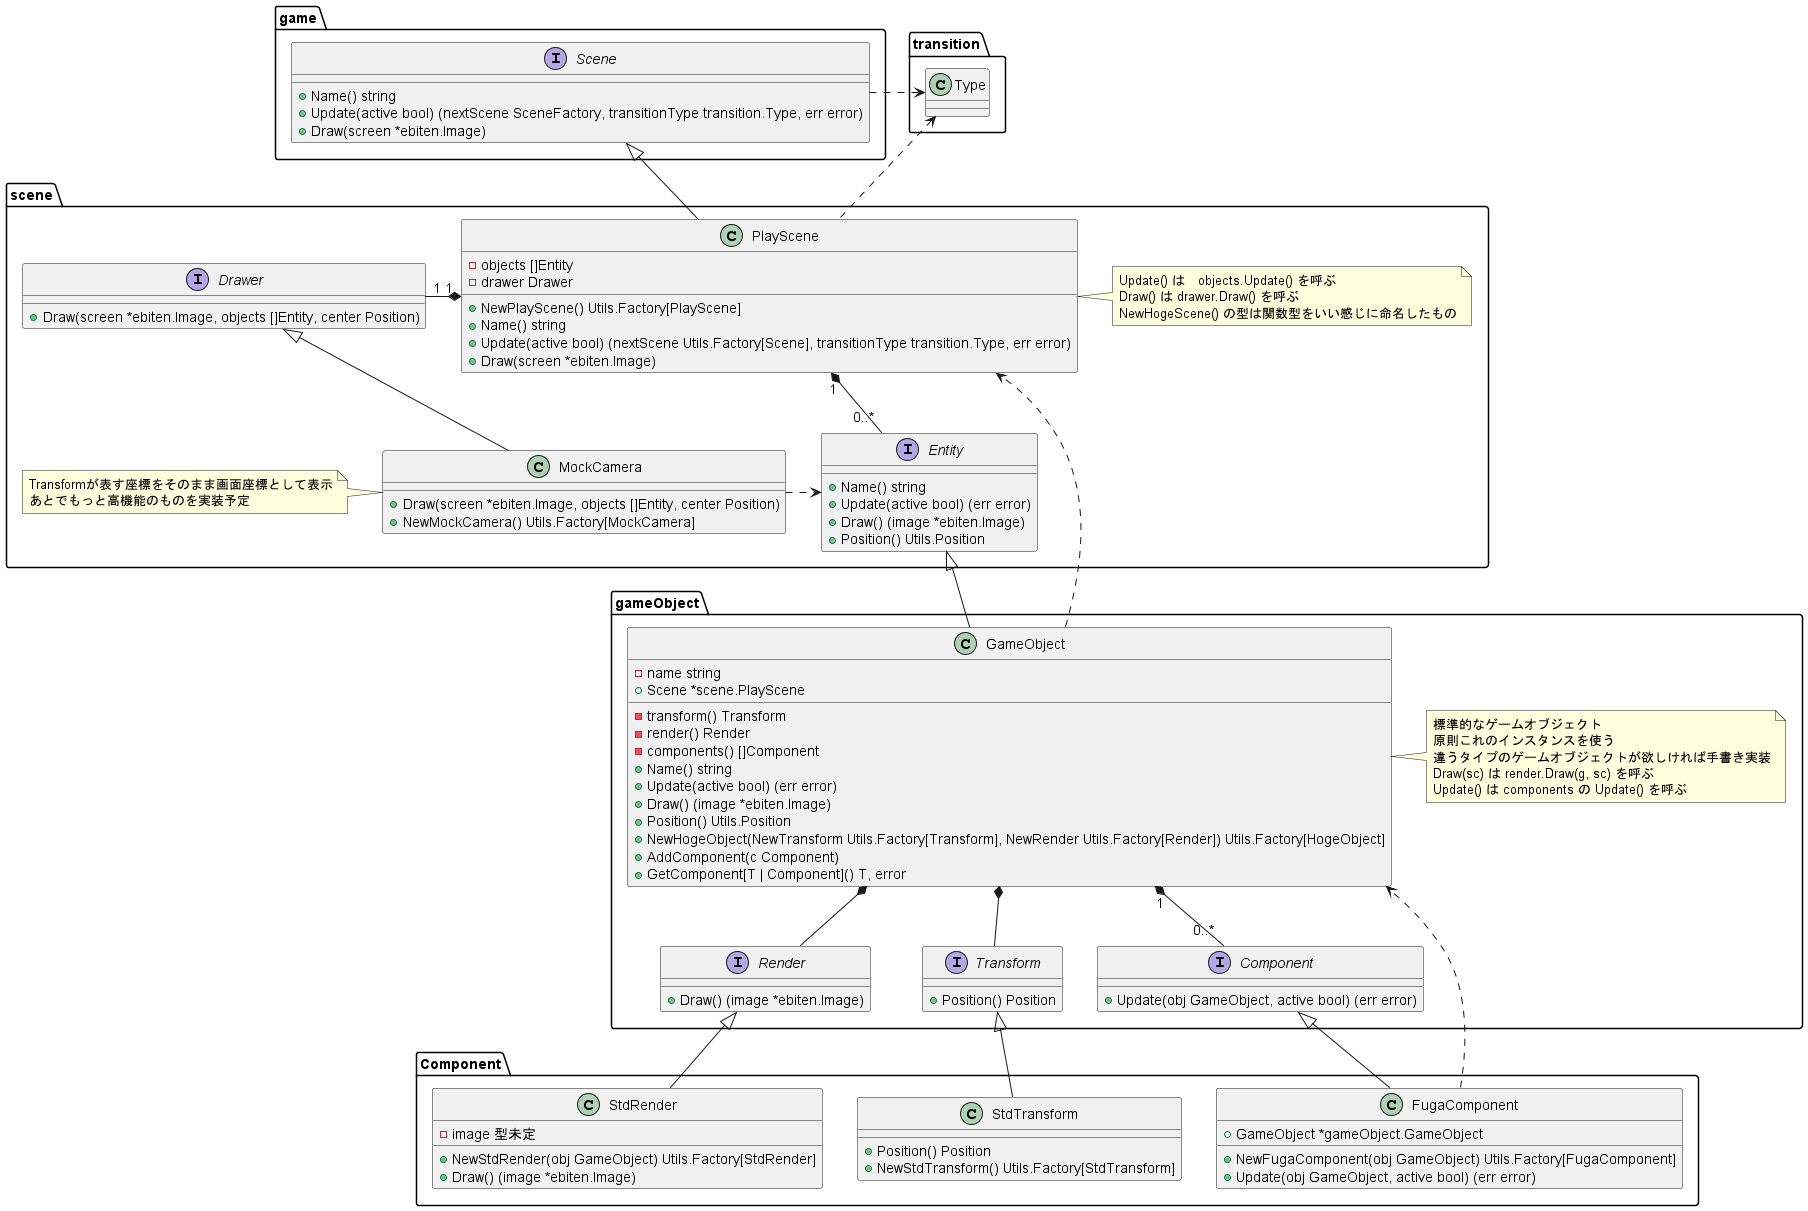
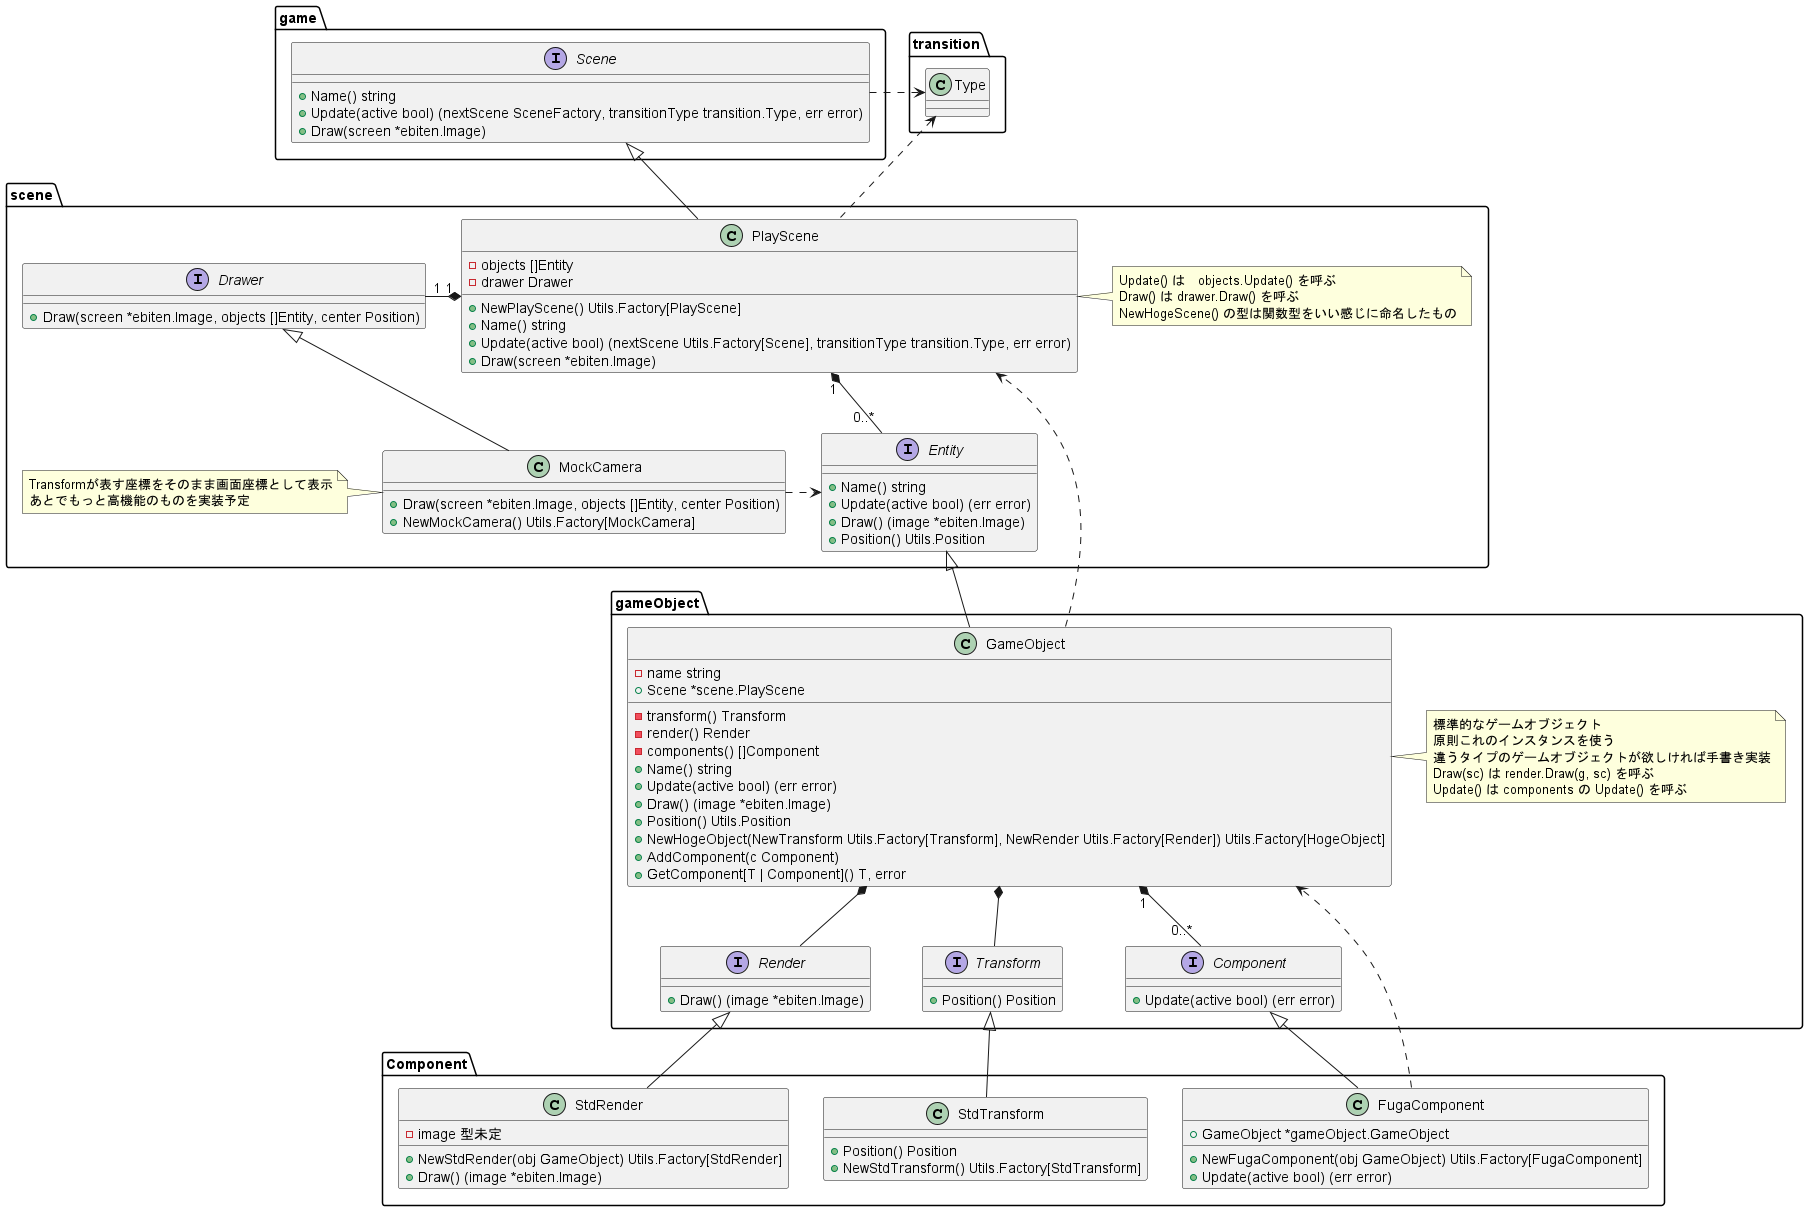
Component に GameObject の参照を持たせたので必要なくなった引数を削除

Changed region(s): [[0.2168, 0.8555, 0.9292, 1.0], [0.6504, 0.7638, 0.7434, 0.8555], [0.6195, 0.7333, 0.6504, 0.7638]]

diff --git a/Source/GameObject/GameObject.go b/Source/GameObject/GameObject.go
@@ -30,7 +30,7 @@ func (g GameObject) GetComponent(target reflect.Type) (component Component, err 
 
 func (g GameObject) Update(active bool) (err error) {
 	for _, c := range g.components() {
-		if err := c.Update(g, active); err != nil {
+		if err := c.Update(active); err != nil {
 			return fmt.Errorf("コンポーネント %s でエラーが発生しました。\n%w", reflect.TypeOf(c), err)
 		}
 	}

diff --git a/Source/GameObject/Component/HogeComponent.go b/Source/GameObject/Component/HogeComponent.go
@@ -9,7 +9,9 @@ type HogeComponent struct {
 	GameObject *gameobject.GameObject
 }
 
-func (h HogeComponent) Update(obj gameobject.GameObject, active bool) (err error) {
+var _ gameobject.Component = HogeComponent{}
+
+func (h HogeComponent) Update(active bool) (err error) {
 	// なにもしない
 	return nil
 }

diff --git a/Source/GameObject/Component.go b/Source/GameObject/Component.go
@@ -1,5 +1,5 @@
 package gameobject
 
 type Component interface {
-	Update(obj GameObject, active bool) (err error)
+	Update(active bool) (err error)
 }
